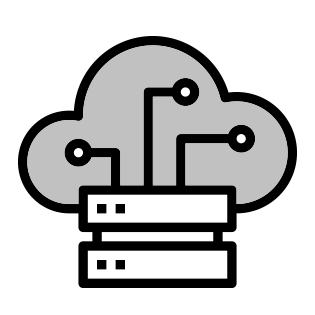
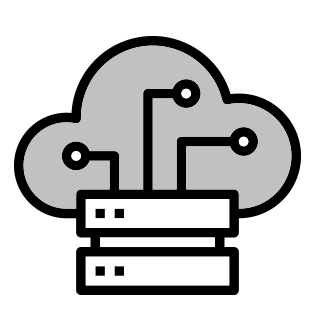
トップページにアイコン３つ表示

diff --git a/_layouts/top.html b/_layouts/top.html
@@ -54,26 +54,26 @@
     <div class="row">
       <div class="col-12">
         <h3>他社の事業を<br class="pc-hidden">Ruby/Railsで開発支援</h3>
-        <div class="row">
+        <div class="row mb-5">
           <div class="col-md-4">
-            <figure id="freee">
-              <img src="https://dummyimage.com/600x400/fff/000" alt="freee">
-              <figcaption>Freee</figcaption>
+            <figure id="ruby">
+              <img src="../../img/logo-ruby.png" width="80%" alt="Ruby logo" />
+               <figcaption>Ruby / Rails</figcaption>
             </figure>
           </div>
           <div class="col-md-4">
-            <figure id="Recruit">
-              <img src="https://dummyimage.com/600x400/fff/000" alt="リクルート">
-              <figcaption>リクルート</figcaption>
+            <figure id="cloud">
+              <img src="../../img/icon-cloud.png" width="80%" alt="cloud icon" />
+              <figcaption>Heroku / AWS</figcaption>
             </figure>
           </div>
           <div class="col-md-4">
-            <figure id="Eiwa-System-Management">
-              <img src="https://dummyimage.com/600x400/fff/000" alt="永和システムマネジメント">
-              <figcaption>永和システムマネジメント</figcaption>
+            <figure id="agile">
+              <img src="../../img/icon-agile.png" width="80%" alt="Agile Web Development image" />
+              <figcaption>Agile Web Development</figcaption>
             </figure>
           </div>
-        </div>
+        </div><!--//row-->
       </div><!--//col-->
     </div><!--//row-->
    
